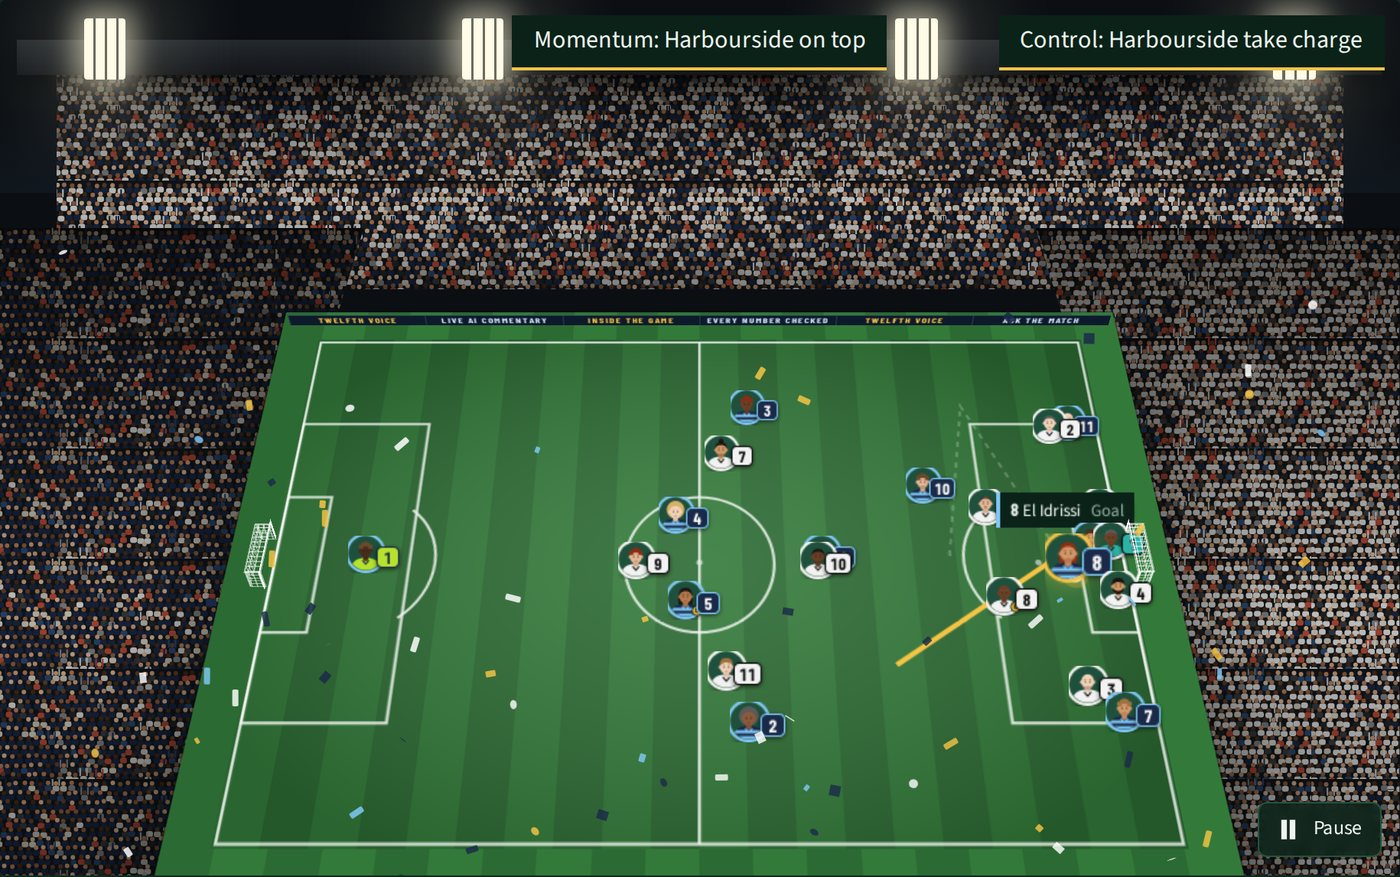
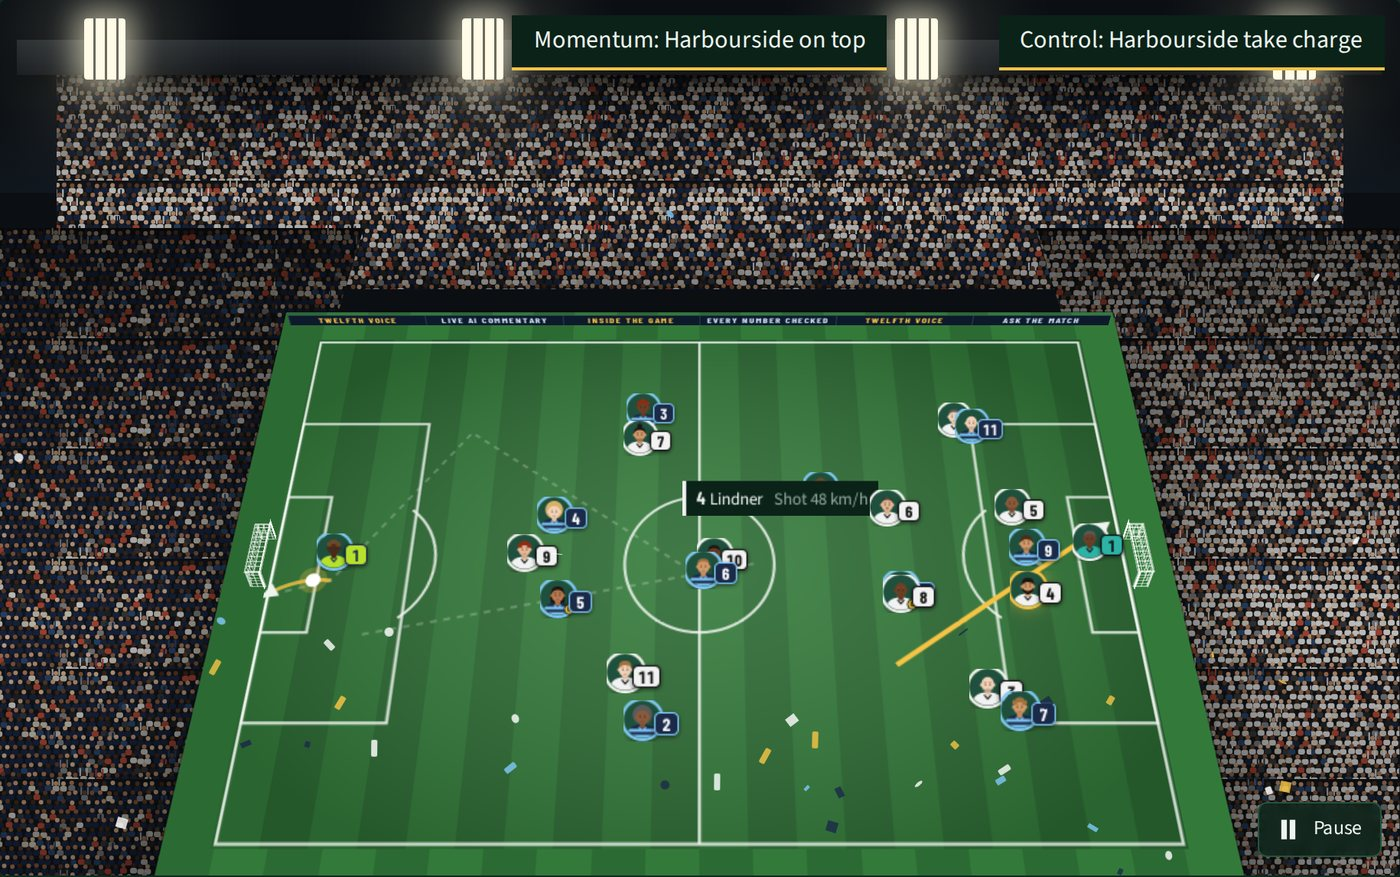
README: fresh screenshots from the live build (start screen, goal, Teams, Players, Full time)
Claude-Session: https://claude.ai/code/session_016b3aoMLovcPxYJW2o3oqfX

diff --git a/README.md b/README.md
@@ -13,7 +13,7 @@ Twelfth Voice turns synthetic football events into explainable, personalised mat
 
 Built for the *Microsoft × Premier League: Inside the Game* developer hackathon.
 
-![The live match screen: stadium view, AI-written story, team stats](docs/images/match-screen.jpg)
+![The live match screen: a goal in the stadium view, the AI-written story and the Teams tab](docs/images/match-screen.jpg)
 
 > All clubs, players, stadiums and matches are fictional and synthetically generated. No real match data, names, logos or footage are used.
 
@@ -27,9 +27,13 @@ Built for the *Microsoft × Premier League: Inside the Game* developer hackathon
 - **Teams, players and full time.** Head-to-head team stats, any two players compared live, and a full-time summary with the player of the match and every goal ready to replay.
 - **An MCP server.** The live match data as tools for any MCP client, such as GitHub Copilot agent mode.
 
-| Goal: call, confetti and crests | Players compared | Full time |
+| Start: clubs, detail and language | Goal: confetti, curved passes, real goals |
+|---|---|
+| ![The start screen with team sheets, Fan or Analyst, and language](docs/images/fixtures.jpg) | ![Goal celebration with confetti in the stadium view](docs/images/goal-confetti.jpg) |
+
+| Teams: possession, passing, xG race | Players compared, with Follow | Full time |
 |---|---|---|
-| ![Goal celebration with confetti](docs/images/goal-confetti.jpg) | ![Players tab comparing the captains](docs/images/players-tab.jpg) | ![Full-time summary with goal replays](docs/images/full-time.jpg) |
+| ![Teams tab with possession ring, pass gauges, xG race and shots](docs/images/team-stats.jpg) | ![Players tab comparing the captains](docs/images/players-tab.jpg) | ![Full-time summary with player of the match and goal replays](docs/images/full-time.jpg) |
 
 ## Built with Microsoft
 
